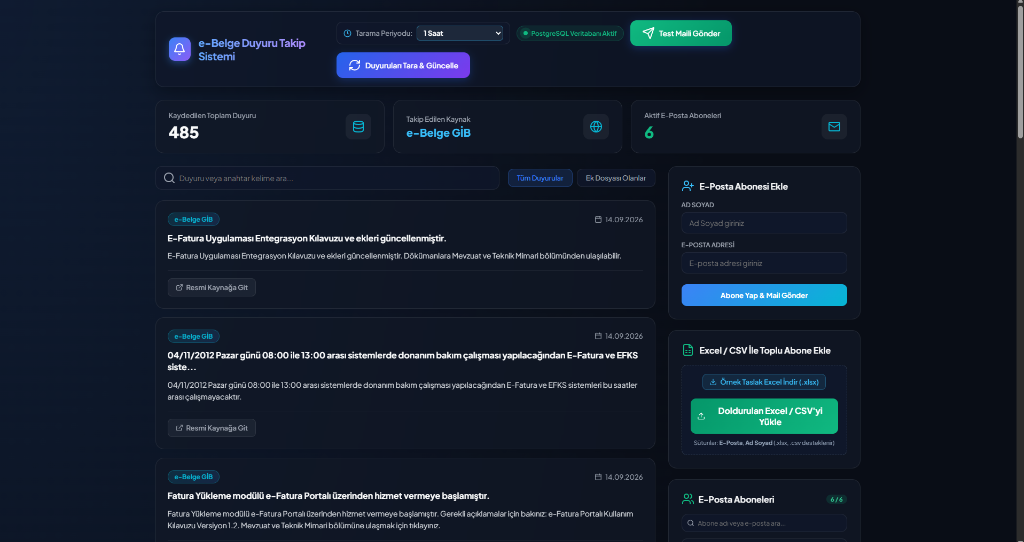
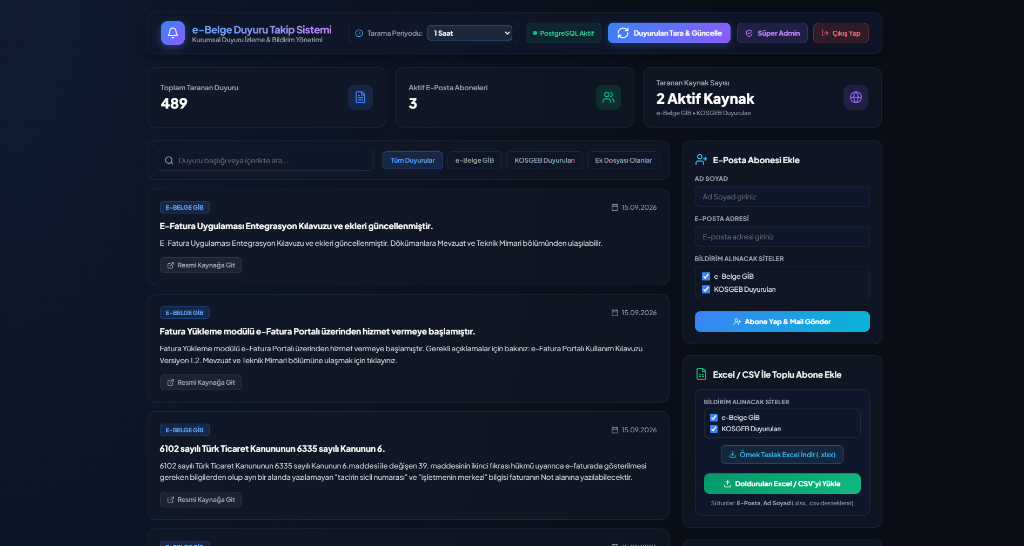
docs: update README.md with new dashboard screenshot and production performance features

diff --git a/README.md b/README.md
@@ -1,95 +1,91 @@
-# e-Belge Duyuru Takip Servisi
+# e-Belge & KOSGEB Duyuru Takip Servisi 🔔
 
-Bu proje, Gelir İdaresi Başkanlığı (GİB) e-Belge portalı ve benzeri kurumsal platformlardaki resmi duyuruları otomatik olarak izleyen, veritabanına kaydeden ve yeni duyuru tespit edildiğinde e-posta abonelerine bildirim gönderen bir **Spring Boot (Java 21)** servisidir.
+Bu proje, Gelir İdaresi Başkanlığı (GİB) e-Belge portalı ve KOSGEB resmi duyurularını otomatik olarak izleyen, veritabanına kaydeden, performans odaklı **Spring Boot (Java 21)** ve **Modern Web Paneli** tabanlı kurumsal bir izleme ve e-posta bildirim sistemidir.
 
 ---
 
-## Ekran Görüntüleri
+## 📸 Ekran Görüntüleri
 
-### Yönetim Paneli
+### Kurumsal Yönetim Paneli
 ![Yönetim Paneli](docs/images/dashboard-ui.png)
 
-### E-Posta Bildirim Şablonu
-![E-Posta Bildirimi](docs/images/email-notification.png)
+---
+
+## 🚀 Temel Özellikler
+
+- **🌐 Çoklu Kaynak Web Kazıma (Multi-Source Scraping)**: GİB e-Belge ve KOSGEB portalı duyuruları, ek dosyaları (.pdf, .zip vb.) ve görselleri otomatik taranır.
+- **⚡ Akıllı Erken Çıkış (Early Exit)**: Taramalar esnasında veritabanında daha önce taranmış olan ilk duyuruya ulaşıldığı an **1 milisaniye** içinde tarama sonlandırılır.
+- **🔀 Paralel Eş Zamanlı Kazıma**: `CompletableFuture` mimarisi ile tüm resmi siteler eş zamanlı (paralel) olarak taranır.
+- **✉ Asenkron E-Posta Bildirimleri (`@Async`)**: Yeni duyurular oluştuğunda e-postalar arka planda ayrı thread pool (`emailExecutor`) üzerinde asenkron olarak gönderilir, kullanıcıyı bekletmez.
+- **📦 Hibernate JDBC Batching**: Toplu duyuru eklemeleri `batch_size: 50` ile tek bir SQL paketinde iletilerek veritabanı yükü %90 azaltılır.
+- **📊 Dinamik Tarama Periyodu**: Tarama sıklığı (ör. 15 dk, 20 dk, 1 saat) yönetim panelinden anlık değiştirilebilir ve ayarlar saklanır.
+- **📁 Toplu Abone Aktarımı**: Excel (.xlsx, .xls) ve CSV dosyalarından toplu abone içe aktarma ve site bazlı tercih atama desteklenir.
+- **🧪 Otomatik E2E UI ve Unit Test Kapsamı**: Playwright Java SDK ile uçtan uca UI testleri ve 98 adet unit/entegrasyon testi ile %100 yeşil test altyapısı.
 
 ---
 
-## Temel İşlevler
+## 🛠 Mimari ve Yeni Kaynak (Site) Ekleme
 
-- **Otomatik Duyuru Taraması**: GİB e-Belge duyuruları ve ek dosyaları (PDF, ZIP paketleri) belirli aralıklarla taranır ve veritabanında güncellenir.
-- **Dinamik Tarama Periyodu**: Tarama sıklığı (ör. 15 dk, 20 dk, 1 saat) yönetim panelinden ayarlanabilir ve tercihler veritabanında saklanır.
-- **E-Posta Bildirimleri & Abonelik Yönetimi**: Yeni duyurular HTML e-posta formatında iletilir. E-posta altbilgisinde kişiselleştirilmiş abonelikten çıkma bağlantısı yer alır.
-- **Toplu Abone İçe Aktarma**: Excel (.xlsx, .csv) dosyası üzerinden toplu abone ekleme desteklenmektedir.
-- **Filtreleme & Sayfalama**: Arayüz üzerinden duyurular ve aboneler listesinde arama ve sayfalama yapılabilir.
-
----
-
-## Mimari ve Yeni Kaynak (Site) Ekleme
-
-Proje **Strategy Pattern** mimarisinde kurgulanmıştır. Yeni bir duyuru kaynağı eklemek için aşağıdaki adımlar izlenir:
+Proje **Strategy Pattern** ve **Spring Bean Auto-Registration** mimarisinde kurgulanmıştır. Yeni bir duyuru kaynağı eklemek için:
 
 1. **`SiteType` Enum'ına Ekleme** (`src/main/java/com/yasarbilgi/announcementtracker/enums/SiteType.java`):
    ```java
    EBELGE_GIB("e-Belge GİB", "https://ebelge.gib.gov.tr/duyurular.html"),
-   YENI_KAYNAK("Yeni Kaynak Adı", "https://ornek-site.gov.tr/duyurular");
+   KOSGEB("KOSGEB Duyuruları", "https://www.kosgeb.gov.tr/site/tr/genel/duyurular"),
+   YENI_KAYNAK("Yeni Kaynak", "https://ornek-site.gov.tr/duyurular");
    ```
 
[1 lines of base64/hex data omitted]
-   `AbstractAnnouncementScraper` sınıfından türeterek `@Component` olarak tanımlayın:
+   `AbstractAnnouncementScraper` sınıfından türeterek `@Component` eklemeniz yeterlidir:
    ```java
    @Component
    public class YeniKaynakScraper extends AbstractAnnouncementScraper {
 
-       public YeniKaynakScraper(AnnouncementRepository repository) {
-           super(repository);
-       }
-
        @Override
-       public SiteType getSupportedSite() {
+       public SiteType getSiteType() {
            return SiteType.YENI_KAYNAK;
        }
 
        @Override
-       public List<Announcement> scrape() {
-           Document doc = fetchDocument(getSupportedSite().getUrl());
-           List<Announcement> announcements = new ArrayList<>();
-           // Ayrıştırma logic'i
-           return filterAndSaveNewAnnouncements(announcements);
+       public List<ScrapedAnnouncementDto> scrape(Predicate<String> hashExistsPredicate) {
+           Document doc = fetchDocument(getSiteType().getBaseUrl());
+           List<ScrapedAnnouncementDto> results = new ArrayList<>();
+           // Ayrıştırma ve hashExistsPredicate.test(contentHash) ile Erken Çıkış kontrolü
+           return results;
        }
    }
    ```
-   *Spring Bean mekanizması sayesinde yeni yazılan scraper otomatik olarak algılanır.*
-
-3. **Ön Yüz Filtre Butonu (Opsiyonel)** (`src/main/resources/static/index.html`):
-   Yönetim panelindeki kaynak filtresinde yeni sitenin görünmesi için buton listesine ekleyin:
-   ```html
-   <button class="filter-btn" onClick={() => setSiteFilter('YENI_KAYNAK')}>Yeni Kaynak</button>
-   ```
-
-> **Not (Veritabanı Uyumluluğu):** Projedeki `DatabaseConstraintFixer` bileşeni, PostgreSQL enum kısıtlamalarını uygulama açılışında otomatik günceller; bu sayede veritabanında manuel SQL çalıştırmanız gerekmez.
 
 ---
 
-## Kullanılan Teknolojiler
+## 🗄 Veritabanı ve Normalizasyon (PostgreSQL)
 
-- **Java 21 & Spring Boot 3/4**
-- **PostgreSQL 17 & Spring Data JPA**
-- **Jsoup** (HTML Web Scraping)
-- **Apache POI** (Excel / CSV Aktarımı)
-- **React (Single Page UI) & Vanilla CSS**
+- **1NF / 2NF / 3NF / BCNF Uyumlu**: İlişkisel veri yapısı 3NF ve BCNF standartlarına tam uygundur.
+- **`ON DELETE CASCADE`**: `subscriber_site_preferences` tablosunda veritabanı ve Hibernate seviyesinde güvenli silme kısıtlaması tanımlanmıştır.
+- **Performans İndeksleri**: `idx_announcement_hash`, `idx_announcement_site`, `idx_announcement_notified` ve `idx_announcement_date` indeksleri ile yüksek hızlı sorgulama.
 
 ---
 
-## Kurulum ve Çalıştırma
+## 💻 Kullanılan Teknolojiler
 
-### 1. Veritabanı
-PostgreSQL üzerinde `announcement_tracker_db` adında veritabanı oluşturun:
+- **Backend**: Java 21, Spring Boot 3, Spring Data JPA, Spring Async
+- **Database**: PostgreSQL 17
+- **Web Scraping**: Jsoup
+- **Testing**: Playwright Java SDK (E2E UI), JUnit 5, Mockito, AssertJ
+- **Frontend**: Single-Page Responsive UI (Vanilla CSS, Modern Glassmorphism Theme)
+- **Document Processing**: Apache POI (Excel / CSV parsing)
+
+---
+
+## ⚙ Kurulum ve Çalıştırma
+
+### 1. Veritabanı Hazırlığı
+PostgreSQL üzerinde `announcement_tracker_db` veritabanını oluşturun:
 ```sql
 CREATE DATABASE announcement_tracker_db;
 ```
 
 ### 2. Konfigürasyon (`src/main/resources/application.yaml`)
-Veritabanı ve SMTP e-posta bilgilerinizi düzenleyin:
 ```yaml
 spring:
   datasource:
@@ -107,9 +103,10 @@ spring:
 ```bash
 ./mvnw spring-boot:run
 ```
-Uygulama ayağa kalktıktan sonra `http://localhost:8080` adresinden yönetim paneline erişilebilir.
+Uygulama başlatıldıktan sonra `http://localhost:8080` adresinden yönetim paneline erişebilirsiniz.
 
-### 4. Testlerin Çalıştırılması
+### 4. Testleri Çalıştırma (Unit + Playwright E2E UI)
 ```bash
+# E2E UI testleri varsayılan olarak yerel tarayıcı (Edge/Chrome) kanalını kullanır
 ./mvnw test
 ```
